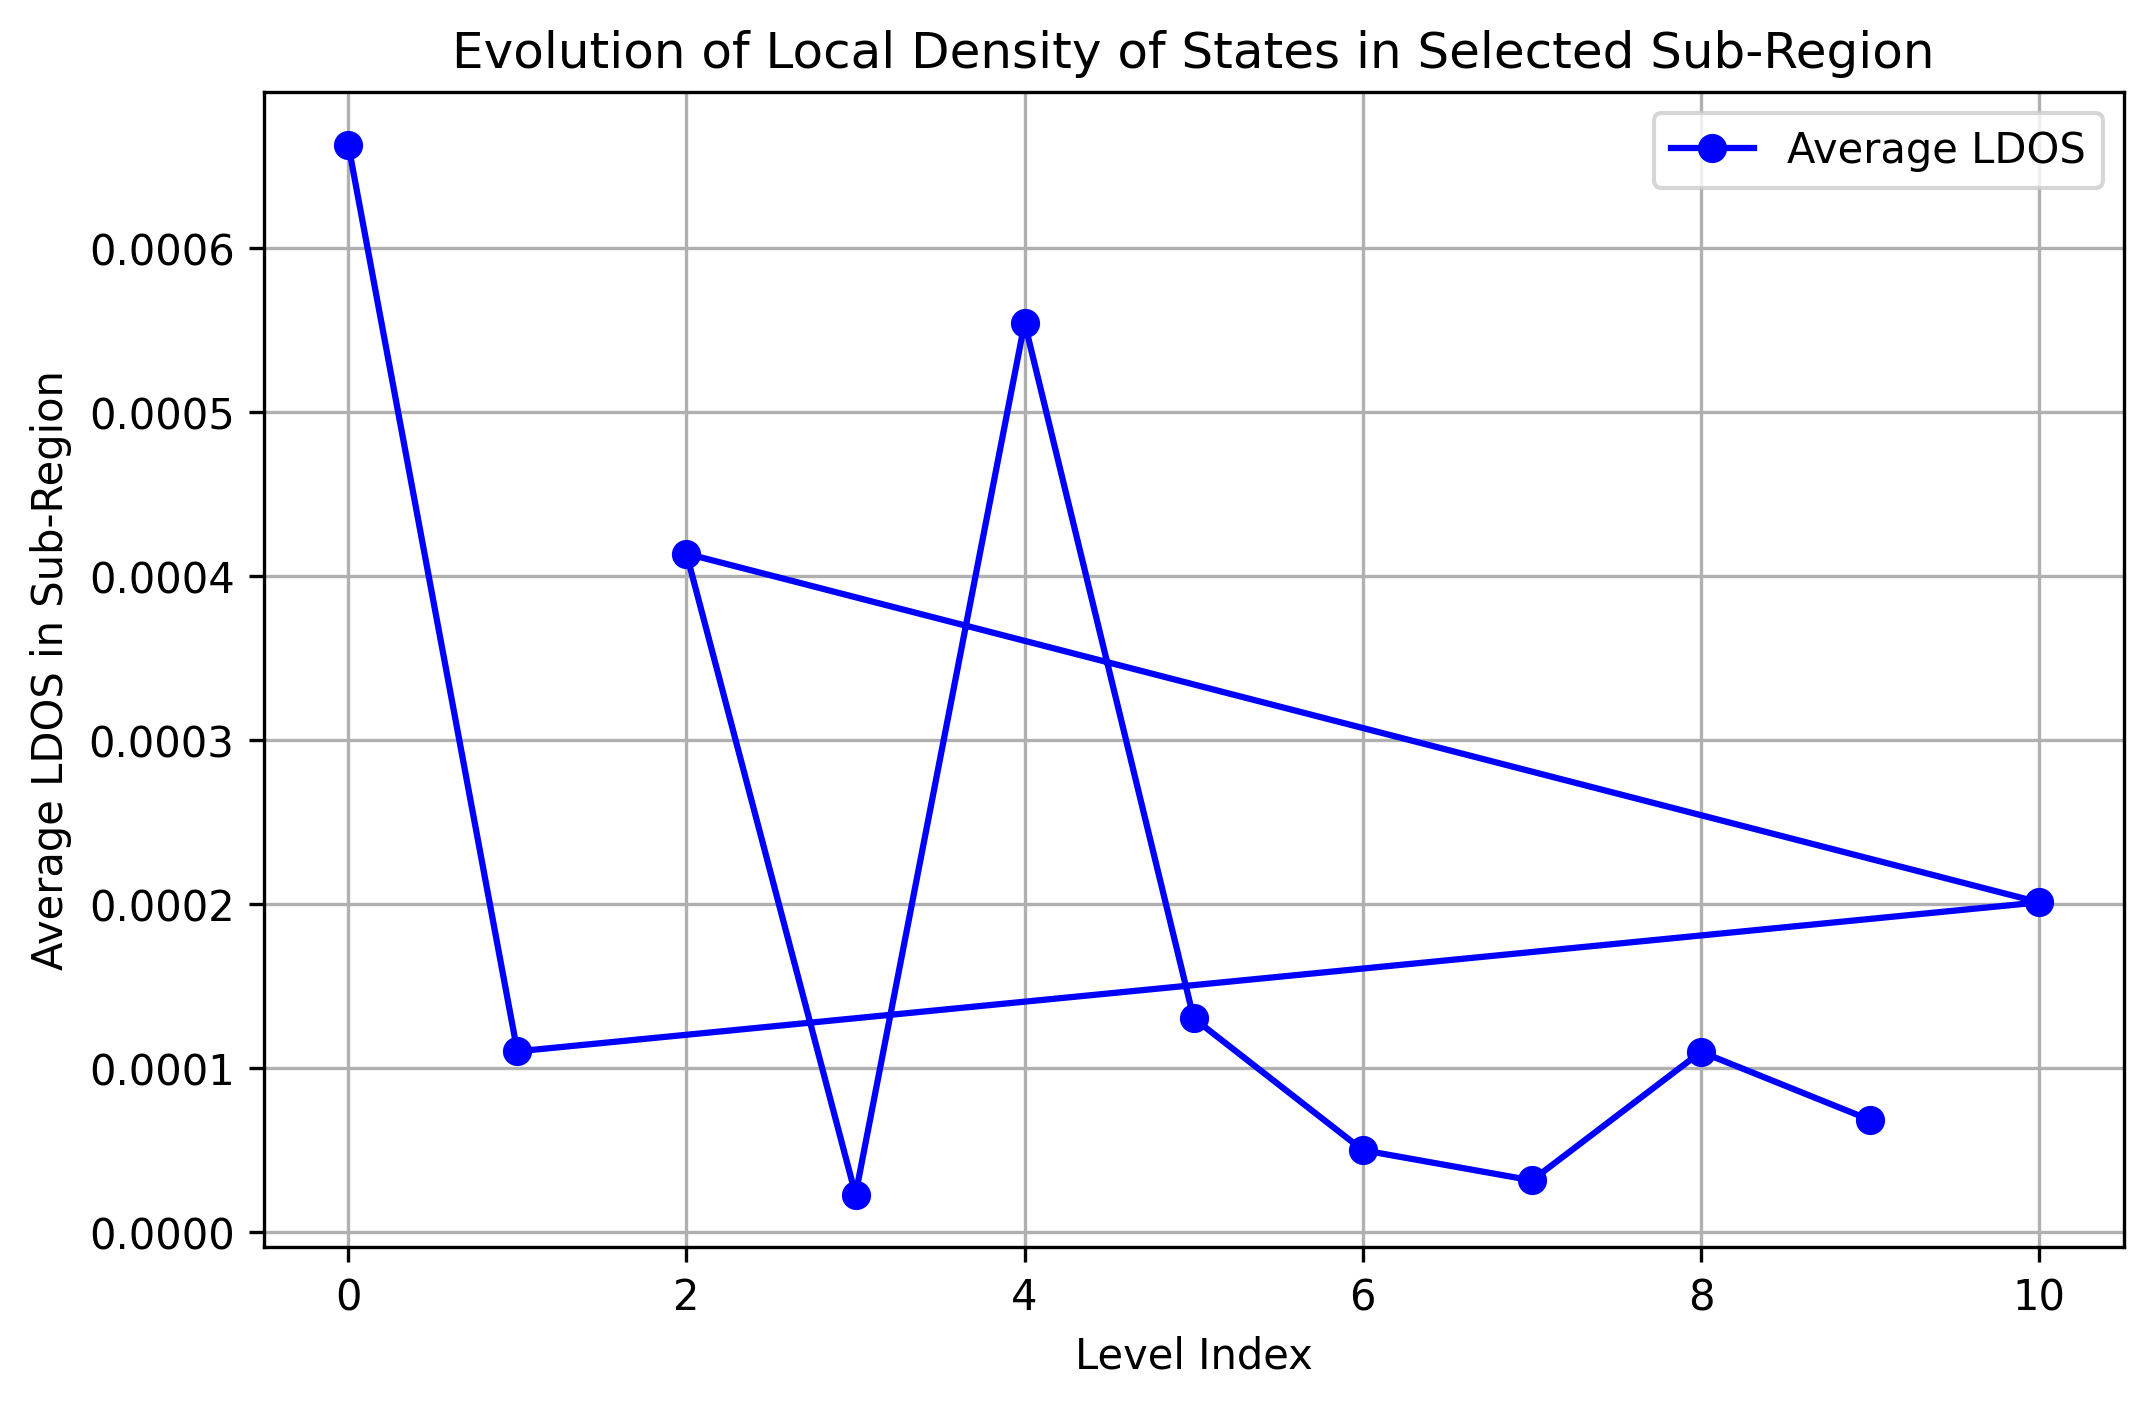
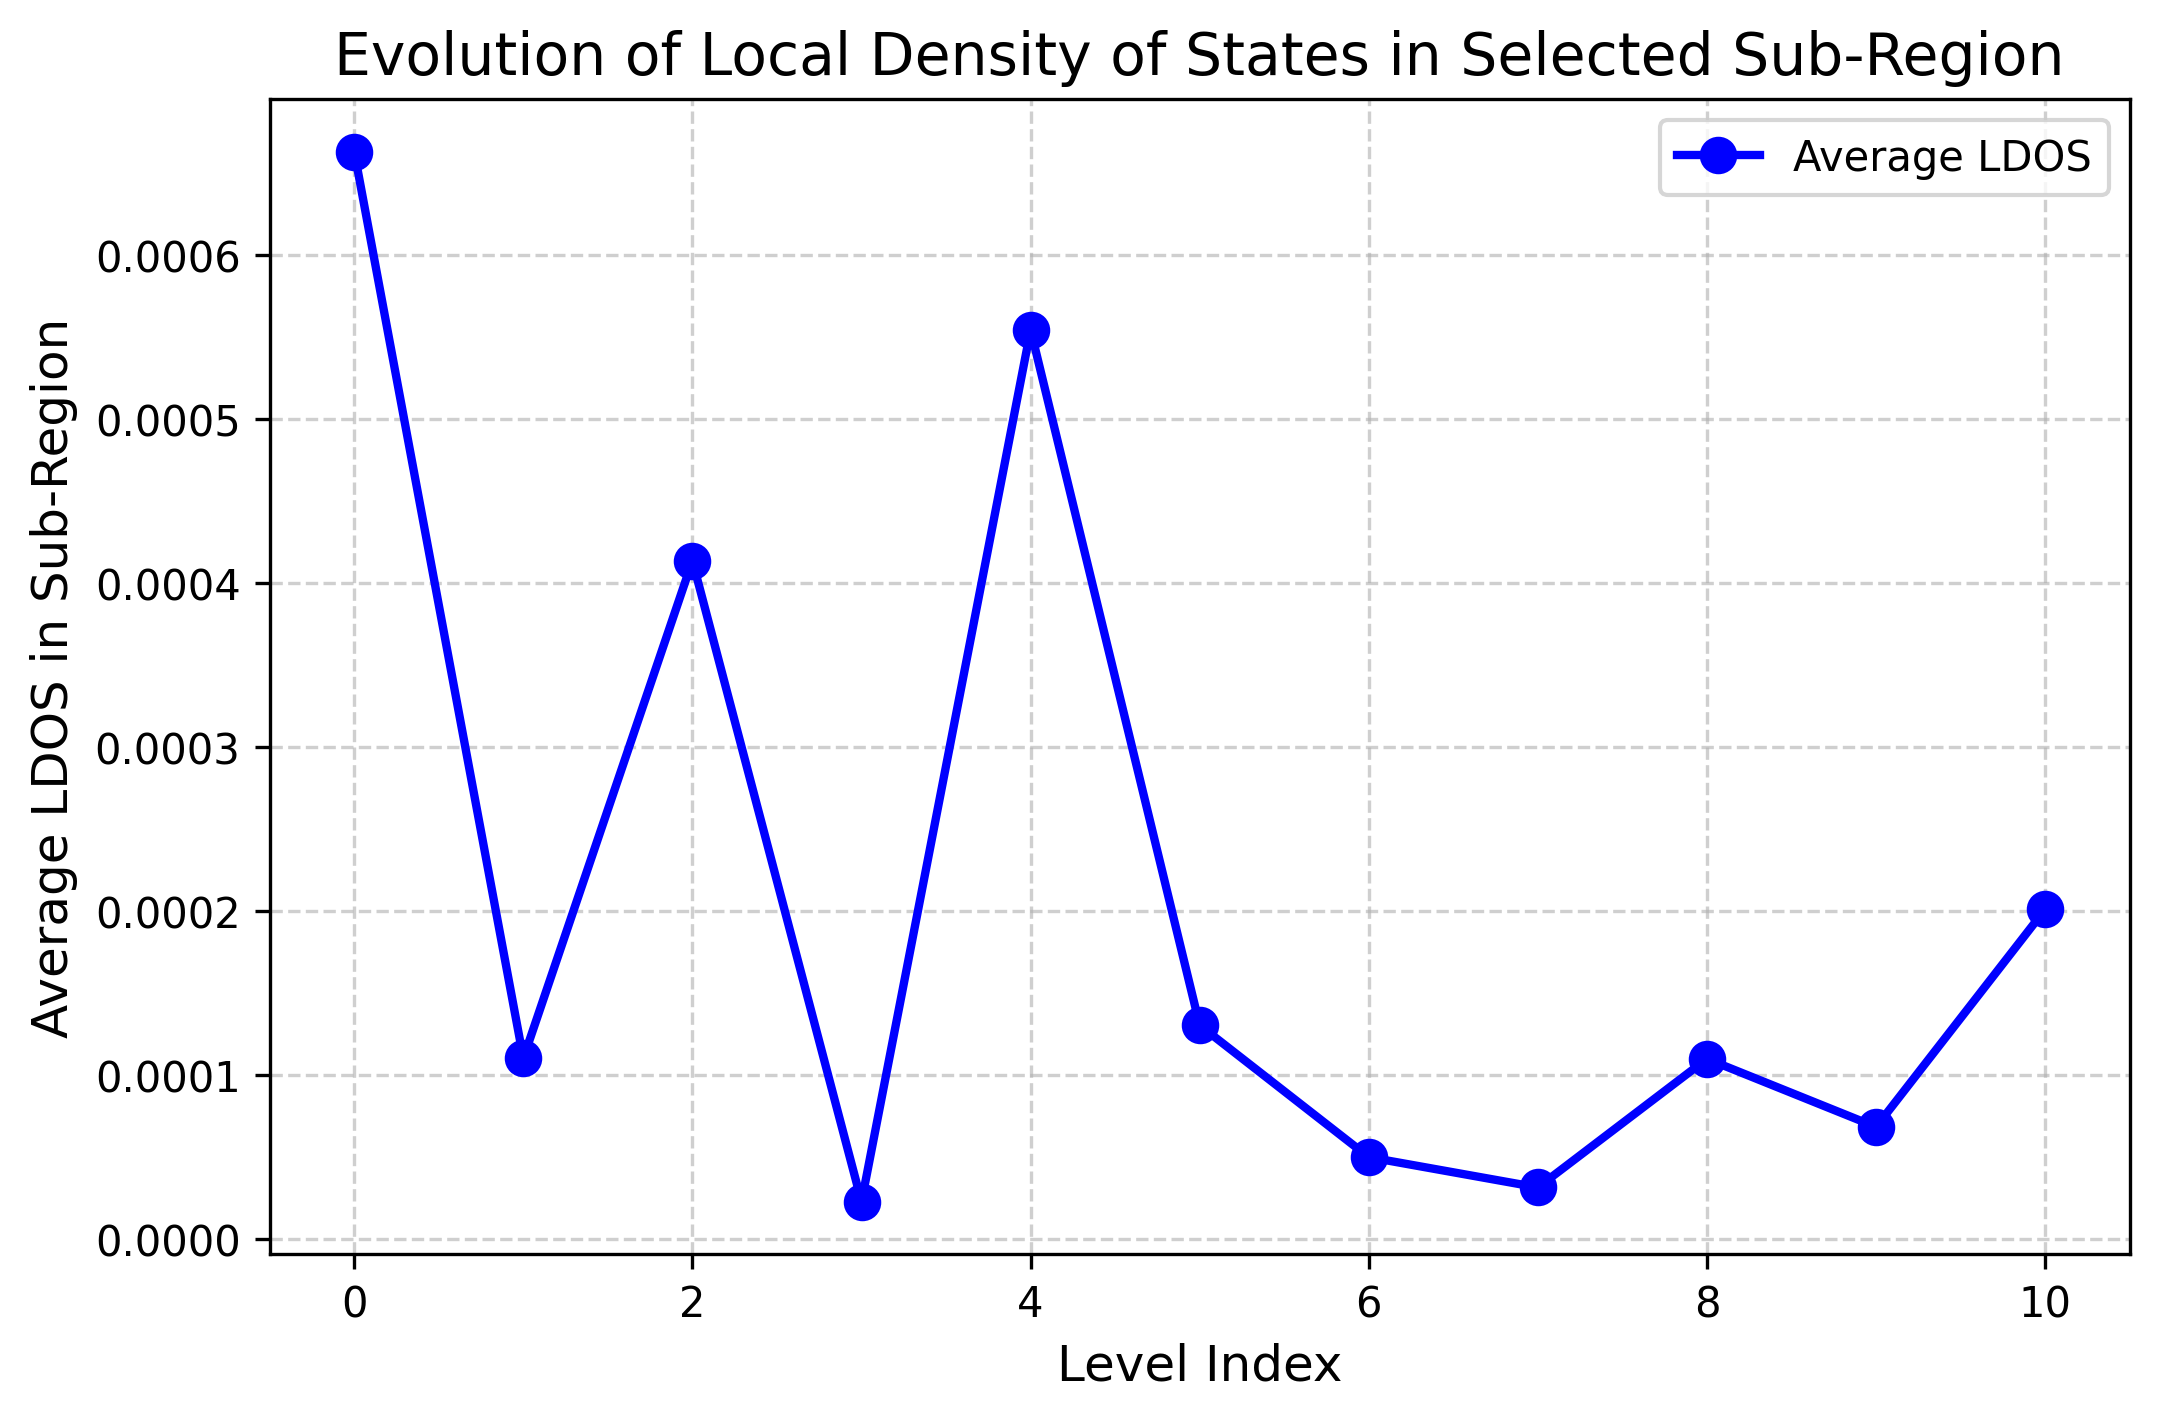
trial

diff --git a/Archive_P2/Local_density_of_states_near_band_edge/part_c.py b/Archive_P2/Local_density_of_states_near_band_edge/part_c.py
@@ -28,9 +28,14 @@ for file_name in text_files:
     rows, cols = data.shape
     center_x, center_y = rows // 2, cols // 2  # Determine center coordinates
 
-    # Extract a 5x5 sub-region
-    sub_region = data[center_x - sub_size//2:center_x + sub_size//2,
-                      center_y - sub_size//2:center_y + sub_size//2]
+    # Ensure the sub-region doesn't go out of bounds
+    x_start = max(0, center_x - sub_size // 2)
+    x_end = min(rows, center_x + sub_size // 2)
+    y_start = max(0, center_y - sub_size // 2)
+    y_end = min(cols, center_y + sub_size // 2)
+
+    # Extract the sub-region
+    sub_region = data[x_start:x_end, y_start:y_end]
 
     # Compute the average LDOS in the sub-region
     avg_value = np.mean(sub_region)
@@ -40,14 +45,17 @@ for file_name in text_files:
     file_index = int(file_name.split("_")[-1].split(".")[0])
     indices.append(file_index)
 
-# Plot the results
+# Ensure data is sorted correctly
+indices, avg_ldos = zip(*sorted(zip(indices, avg_ldos)))
+
+# Plot the results with improved settings
 plt.figure(figsize=(8, 5))
-plt.plot(indices, avg_ldos, marker='o', linestyle='-', color='b', label='Average LDOS')
-plt.xlabel("Level Index")
-plt.ylabel("Average LDOS in Sub-Region")
-plt.title("Evolution of Local Density of States in Selected Sub-Region")
+plt.plot(indices, avg_ldos, marker='o', linestyle='-', color='b', linewidth=2, markersize=8, label='Average LDOS')
+plt.xlabel("Level Index", fontsize=12)
+plt.ylabel("Average LDOS in Sub-Region", fontsize=12)
+plt.title("Evolution of Local Density of States in Selected Sub-Region", fontsize=14)
 plt.legend()
-plt.grid(True)
+plt.grid(True, linestyle="--", alpha=0.6)
 
 # Save the figure
 output_plot = os.path.join(input_dir, "average_ldos_evolution.png")
